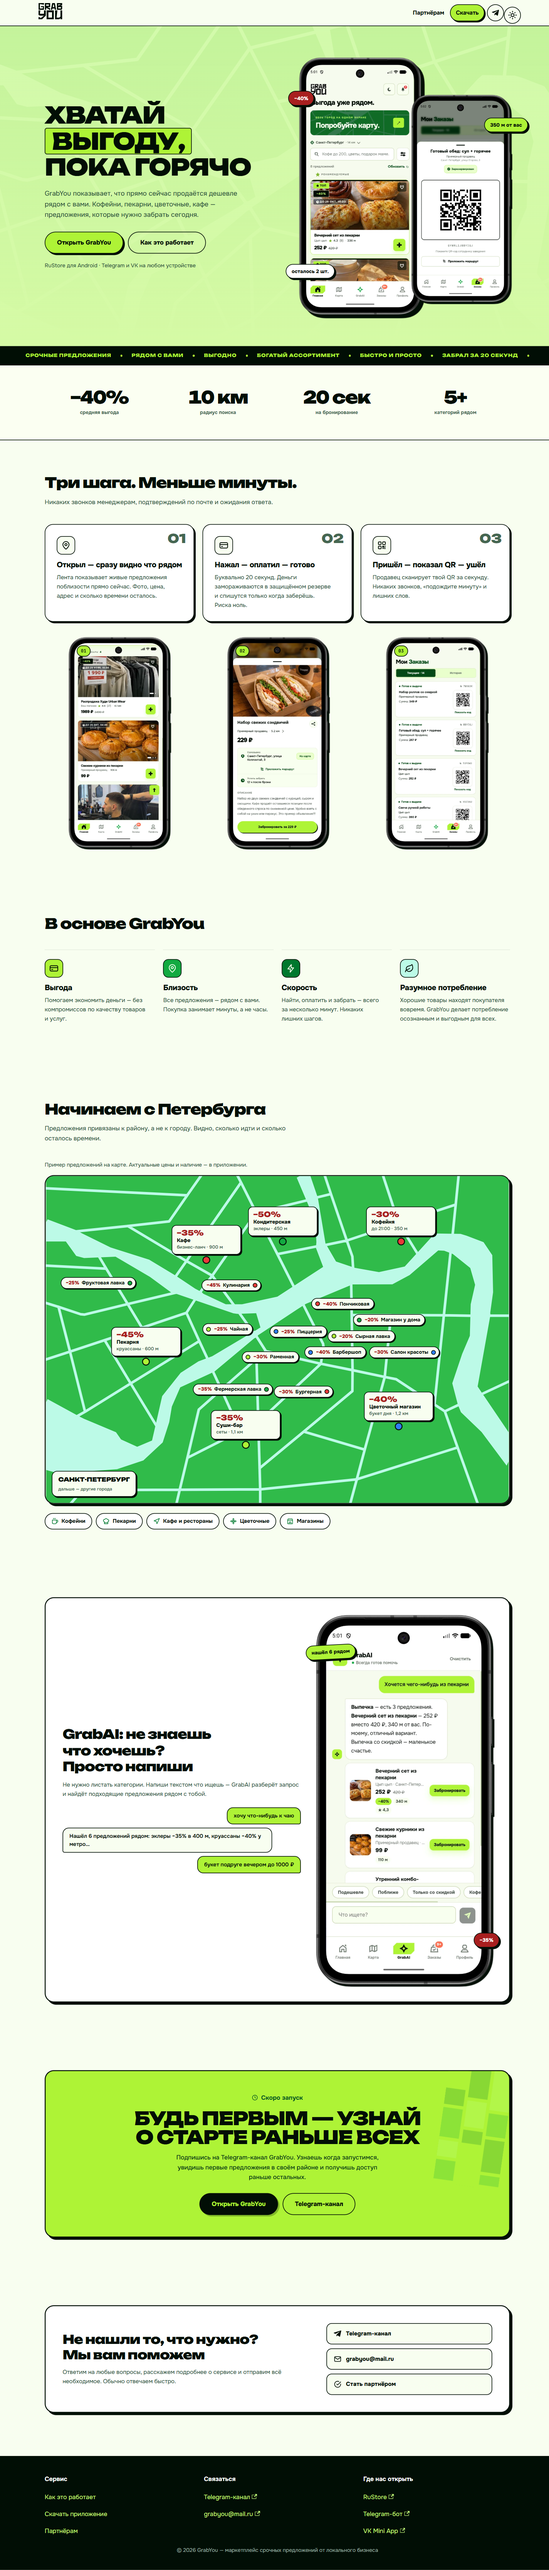
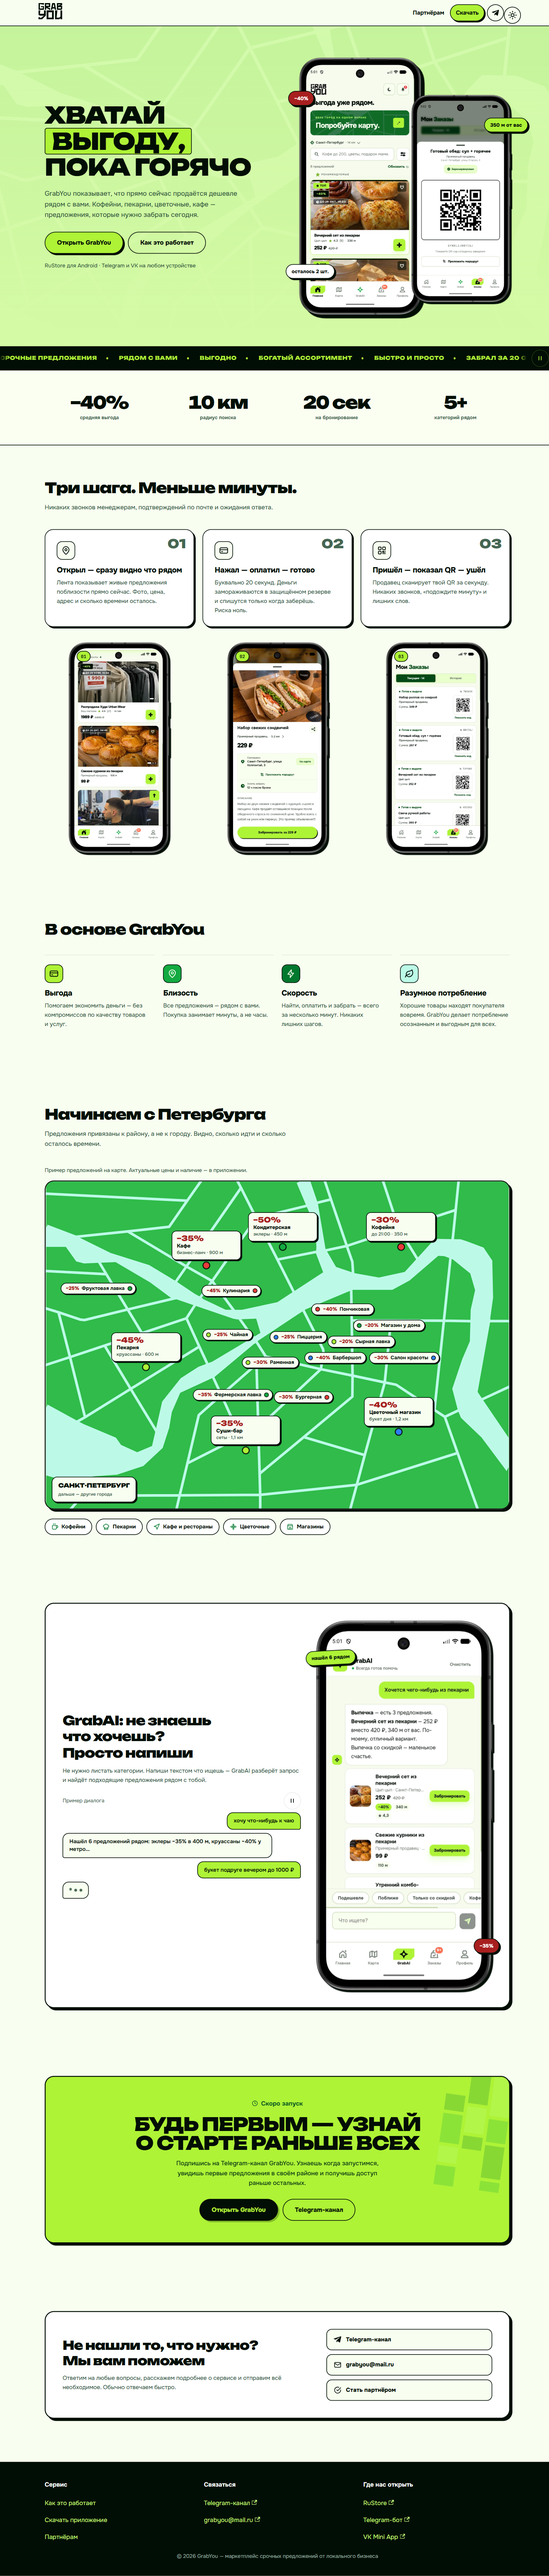
feat(motion): restore seamless ticker and GrabAI typing feedback
Add controlled right-to-left marquee, staggered typing dots and a restrained hero entrance. Pause loops offscreen or in hidden tabs, provide pause controls and static reduced-motion variants. Verify loop continuity and playback in Chromium.

diff --git a/src/components/HomepageFeatures/index.js b/src/components/HomepageFeatures/index.js
@@ -1,3 +1,4 @@
+import {useEffect, useRef, useState} from 'react';
 import Heading from '@theme/Heading';
 import Link from '@docusaurus/Link';
 import useBaseUrl from '@docusaurus/useBaseUrl';
@@ -19,6 +20,88 @@ import {
   IconZap,
 } from '@site/src/components/brand/icons';
 import styles from './styles.module.css';
+
+function usePlayback() {
+  const ref = useRef(null);
+  const [visible, setVisible] = useState(false);
+  const [pageVisible, setPageVisible] = useState(true);
+  const [paused, setPaused] = useState(false);
+
+  useEffect(() => {
+    const observer = new IntersectionObserver(([entry]) => setVisible(entry.isIntersecting), {threshold: 0.05});
+    observer.observe(ref.current);
+    const onVisibility = () => setPageVisible(document.visibilityState !== 'hidden');
+    onVisibility();
+    document.addEventListener('visibilitychange', onVisibility);
+    return () => {
+      observer.disconnect();
+      document.removeEventListener('visibilitychange', onVisibility);
+    };
+  }, []);
+
+  return {ref, paused, setPaused, running: visible && pageVisible && !paused};
+}
+
+function MotionToggle({paused, onToggle, subject, controls}) {
+  return (
+    <button
+      type="button"
+      className={styles.motionToggle}
+      aria-label={`${paused ? 'Продолжить' : 'Приостановить'} ${subject}`}
+      aria-controls={controls}
+      onClick={onToggle}>
+      <svg width="18" height="18" viewBox="0 0 24 24" aria-hidden="true">
+        {paused
+          ? <path d="m9 5 11 7-11 7Z" fill="currentColor" />
+          : <path d="M8 6v12M16 6v12" stroke="currentColor" strokeWidth="2.5" strokeLinecap="round" />}
+      </svg>
+    </button>
+  );
+}
+
+function ServiceTicker() {
+  const {ref, paused, setPaused, running} = usePlayback();
+  return (
+    <div className={styles.ticker} ref={ref} data-running={running}>
+      <div className={styles.tickerViewport} aria-hidden="true">
+        <div className={styles.tickerTrack} id="grabyou-ticker" data-motion="ticker-track">
+          {[0, 1].map((copy) => (
+            <div key={copy} className={styles.tickerGroup} data-motion="ticker-group">
+              {tickerItems.map((item) => (
+                <span key={item} className={styles.tickerItem}>
+                  {item}<span className={styles.tickerDot} />
+                </span>
+              ))}
+            </div>
+          ))}
+        </div>
+      </div>
+      <MotionToggle paused={paused} onToggle={() => setPaused(!paused)} subject="бегущую строку" controls="grabyou-ticker" />
+    </div>
+  );
+}
+
+function AiConversation() {
+  const {ref, paused, setPaused, running} = usePlayback();
+  return (
+    <div ref={ref} className={styles.aiDemo} data-running={running}>
+      <div className={styles.aiDemoToolbar}>
+        <span>Пример диалога</span>
+        <MotionToggle paused={paused} onToggle={() => setPaused(!paused)} subject="анимацию диалога" controls="grabai-typing" />
+      </div>
+      <div className={styles.aiChat}>
+        <div className={`${styles.bubble} ${styles.bubbleUser}`}>хочу что-нибудь к чаю</div>
+        <div className={styles.bubble}>
+          Нашёл 6 предложений рядом: эклеры −35% в 400 м, круассаны −40% у метро…
+        </div>
+        <div className={`${styles.bubble} ${styles.bubbleUser}`}>букет подруге вечером до 1000 ₽</div>
+        <div className={`${styles.bubble} ${styles.bubbleTyping}`} id="grabai-typing" role="img" aria-label="Пример: GrabAI подбирает предложения">
+          {[0, 1, 2].map((dot) => <span key={dot} data-motion="typing-dot" />)}
+        </div>
+      </div>
+    </div>
+  );
+}
 
 /* ─── Данные ─── */
 const tickerItems = [
@@ -131,8 +214,6 @@ export default function HomepageFeatures() {
   const paymentImg = useBaseUrl('/img/grabyou/payment-screen.webp');
   const aiPicImg = useBaseUrl('/img/grabyou/ai_pic.webp');
 
-  const ticker = tickerItems;
-
   return (
     <div className={styles.page}>
 
@@ -186,16 +267,7 @@ export default function HomepageFeatures() {
       </section>
 
       {/* ═══ ПОЛОСА СЕРВИСА ═══ */}
-      <div className={styles.ticker} aria-hidden="true">
-        <div className={styles.tickerTrack}>
-          {ticker.map((item, i) => (
-            <span key={i} className={styles.tickerItem}>
-              {item}
-              <span className={styles.tickerDot} />
-            </span>
-          ))}
-        </div>
-      </div>
+      <ServiceTicker />
 
       {/* ═══ ЦИФРЫ ═══ */}
       <section className={styles.statsSection}>
@@ -378,16 +450,7 @@ export default function HomepageFeatures() {
                   Не нужно листать категории. Напиши текстом что ищешь — GrabAI
                   разберёт запрос и найдёт подходящие предложения рядом с тобой.
                 </p>
-                <div className={styles.aiChat}>
-                  <div className={`${styles.bubble} ${styles.bubbleUser}`}>хочу что-нибудь к чаю</div>
-                  <div className={styles.bubble}>
-                    Нашёл 6 предложений рядом: эклеры −35% в 400 м, круассаны −40% у метро…
-                  </div>
-                  <div className={`${styles.bubble} ${styles.bubbleUser}`}>
-                    букет подруге вечером до 1000 ₽
-                  </div>
-
-                </div>
+                <AiConversation />
               </div>
               <div className={styles.aiVisual}>
                 <img src={aiPicImg} alt="GrabAI" loading="lazy" width="816" height="1713" />

diff --git a/src/components/HomepageFeatures/styles.module.css b/src/components/HomepageFeatures/styles.module.css
@@ -71,6 +71,12 @@
   grid-template-columns: minmax(0, 1.05fr) minmax(0, 0.95fr);
   gap: clamp(1.5rem, 4vw, 3.5rem);
   align-items: center;
+  animation: hero-enter 480ms var(--gy-ease);
+}
+
+@keyframes hero-enter {
+  from { opacity: 0.5; transform: translateY(8px); }
+  to { opacity: 1; transform: none; }
 }
 
 .heroCard {
@@ -196,20 +202,44 @@
    БЕГУЩАЯ СТРОКА
    ========================================================================== */
 .ticker {
+  display: flex;
+  align-items: center;
+  gap: 0.75rem;
   background: var(--gy-ink-900);
   color: var(--gy-accent);
   border-bottom: var(--gy-stroke) solid var(--gy-border);
   overflow: hidden;
-  padding: 0.85rem 0;
+  padding: 0.5rem 1rem 0.5rem 0;
+}
+
+.tickerViewport {
+  flex: 1;
+  min-width: 0;
+  overflow: hidden;
+  mask-image: linear-gradient(to right, transparent, #000 1.5rem, #000 calc(100% - 1.5rem), transparent);
 }
 
 .tickerTrack {
   display: flex;
-  justify-content: center;
-  flex-wrap: wrap;
-  gap: 0.75rem 1.5rem;
-  padding-inline: 1rem;
+  width: max-content;
+  animation: ticker-travel 36s linear infinite;
+  animation-play-state: paused;
+}
 
+.tickerGroup {
+  display: flex;
+  align-items: center;
+  justify-content: space-around;
+  flex: 0 0 auto;
+  min-width: 100vw;
+  gap: 1.75rem;
+  padding-right: 1.75rem;
+}
+
+.ticker[data-running='true'] .tickerTrack { animation-play-state: running; }
+
+@keyframes ticker-travel {
+  to { transform: translateX(-50%); }
 }
 
 .tickerItem {
@@ -217,17 +247,45 @@
   align-items: center;
   gap: 1.5rem;
   font-family: var(--gy-font-display);
-  font-size: 0.75rem;
+  font-size: 0.85rem;
   font-weight: 800;
   letter-spacing: 0.06em;
   white-space: nowrap;
 }
 
 .tickerDot {
+  flex-shrink: 0;
   width: 5px;
   height: 5px;
   border-radius: 999px;
   background: var(--gy-accent);
+}
+
+.motionToggle {
+  display: grid;
+  place-items: center;
+  flex: 0 0 44px;
+  width: 44px;
+  height: 44px;
+  padding: 0;
+  border: 1px solid var(--gy-border-soft);
+  border-radius: 50%;
+  background: transparent;
+  color: var(--gy-text);
+  cursor: pointer;
+  transition: background-color 160ms var(--gy-ease), transform 160ms var(--gy-ease);
+}
+
+.ticker .motionToggle {
+  color: var(--gy-accent);
+  border-color: color-mix(in srgb, var(--gy-accent) 35%, transparent);
+}
+
+.ticker .motionToggle:focus-visible { outline-color: var(--gy-accent); }
+
+@media (hover: hover) and (pointer: fine) {
+  .motionToggle:hover { background: color-mix(in srgb, var(--gy-accent) 15%, transparent); }
+  .motionToggle:active { transform: scale(0.96); }
 }
 
 /* ==========================================================================
@@ -776,7 +834,18 @@
 .aiChat {
   display: grid;
   gap: 0.55rem;
-  margin-top: 1.4rem;
+  margin-top: 0.5rem;
+}
+
+.aiDemo { margin-top: 1.25rem; }
+
+.aiDemoToolbar {
+  display: flex;
+  align-items: center;
+  justify-content: space-between;
+  gap: 1rem;
+  color: var(--gy-text-dim);
+  font-size: 0.85rem;
 }
 
 .bubble {
@@ -797,6 +866,32 @@
   border-radius: 16px 16px 5px 16px;
   background: var(--gy-accent);
   color: var(--gy-ink-900);
+}
+
+.bubbleTyping {
+  display: inline-flex;
+  align-items: center;
+  gap: 6px;
+  min-height: 44px;
+  padding-inline: 1rem;
+}
+
+.bubbleTyping span {
+  width: 7px;
+  height: 7px;
+  border-radius: 50%;
+  background: var(--gy-text-dim);
+  animation: typing-wave 1400ms var(--gy-ease) infinite;
+  animation-play-state: paused;
+}
+
+.bubbleTyping span:nth-child(2) { animation-delay: 160ms; }
+.bubbleTyping span:nth-child(3) { animation-delay: 320ms; }
+.aiDemo[data-running='true'] .bubbleTyping span { animation-play-state: running; }
+
+@keyframes typing-wave {
+  0%, 60%, 100% { opacity: 0.35; transform: translateY(0); }
+  30% { opacity: 1; transform: translateY(-3px); }
 }
 
 .aiVisual {
@@ -1137,7 +1232,7 @@
   .heroCard { padding: 0; }
   .heroText { font-size: 1rem; }
   .heroButtons { margin-top: 1.5rem; }
-  .tickerItem { font-family: var(--gy-font-base); font-size: 0.7rem; }
+  .tickerItem { font-size: 0.75rem; }
   .statsSection { padding-block: 1.5rem; }
   .heroVisual { max-width: 320px; }
   .shots, .offerStrip { scrollbar-width: thin; }
@@ -1147,4 +1242,13 @@
 
 @media (hover: none), (prefers-reduced-motion: reduce) {
   .helpLink:hover { transform: none; }
+}
+
+@media (prefers-reduced-motion: reduce) {
+  .heroGrid, .tickerTrack, .bubbleTyping span { animation: none; }
+  .ticker { padding: 0.85rem 1rem; }
+  .tickerViewport { mask-image: none; }
+  .tickerTrack { width: 100%; }
+  .tickerGroup { min-width: 0; width: 100%; flex-wrap: wrap; gap: 0.75rem 1.5rem; padding: 0; }
+  .tickerGroup + .tickerGroup, .motionToggle { display: none; }
 }

diff --git a/docs/ui-audit/README.md b/docs/ui-audit/README.md
@@ -24,7 +24,7 @@ karpathy-guidelines и ponytail.
 | P1 | Тёмная тема и фокус имели отдельные проблемы контраста | Семантический цвет фокуса и контрастные тексты/бейджи, включая hover |
 | P2 | Первый экран перегружен; объяснение покупки ниже блока ценностей | Ясное главное действие, меньше рамок и повторов, практический сценарий выше |
 | P2 | Карточка RuStore растягивалась на телефоне; выбор для iPhone неясен | Исправлен flex-basis, явно указаны подходящие каналы, конкретные названия действий |
-| P2 | Содержание скрыто до прокрутки; постоянные пульсации и счётчики | Содержание видно сразу. Одна короткая анимация формы, статичные числа и карта |
+| P2 | Содержание скрыто до прокрутки; постоянные пульсации и счётчики | Содержание видно сразу, числа и карта статичны. Строка и пример GrabAI получили управляемые анимации |
 | P2 | Крупные PNG утяжеляли главную | Шесть WebP: 554 518 байт вместо 10 361 203, уменьшение на 94,6%. Оригиналы сохранены |
 | P2 | На 320 px при тексте 200% обрезались футер, CTA, FAQ и отдельные заголовки | Ограничена ширина flex/grid-элементов, разрешены нужные переносы |
 | P2 | Корневые CSS-пути ломались в подпапке Pages; CORS не знал текущего владельца репозитория | Ассеты собираются с относительными путями, добавлен origin vladimirdonskov.github.io |
@@ -53,7 +53,18 @@ karpathy-guidelines и ponytail.
 [отправка](screenshots/after-form-loading.png), [ошибка](screenshots/after-form-error.png),
 [успех](screenshots/after-form-success.png).
 
+Кадры обновлённых анимаций: [бегущая строка](screenshots/motion-ticker-1440.png),
+[индикатор GrabAI](screenshots/motion-ai-1440.png),
+[GrabAI на телефоне](screenshots/motion-ai-390.png).
+
 ## Проверки
+
+По пожеланию владельца возвращены бесшовная бегущая строка справа налево и
+анимация трёх точек под запросом про букет. Главный экран появляется одной
+группой за 480 ms. Циклическое движение можно остановить кнопками; вне экрана
+и в скрытой вкладке оно приостанавливается, при reduced motion заменяется
+статичным представлением. Проверка направления, стыка цикла, паузы и reduced
+motion находится в `scripts/verify-motion.cjs` и запускается тем же Playwright runner.
 
 - Production-сборка Docusaurus: `npm run build`, без предупреждений компилятора CSS.
 - Видимый Chromium через Playwright: три страницы на 390, 768, 1440 px;

diff --git a/DESIGN.md b/DESIGN.md
@@ -31,8 +31,15 @@ GrabYou помогает найти срочные предложения лок
   API `{ok: true}`; закрытие подтверждения очищает заявку.
 - Открытие формы мышью: один контейнер, 200 ms, opacity и translateY.
   Для клавиатуры — сразу, для reduced motion — только opacity.
-- Нет бесконечного движения, счётчиков через React на каждом кадре или скрытого
-  до прокрутки содержимого. Состояния доступны без анимации.
+- Главный экран появляется одной группой за 480 ms: opacity и сдвиг на 8 px.
+  Нет вложенных задержек, подпрыгивания телефонов или скрытого до прокрутки контента.
+- Бегущая строка движется справа налево с постоянной скоростью и бесшовным циклом.
+  В примере GrabAI три точки мягко показывают подбор ответа; это демонстрация,
+  а не статус настоящего запроса. У каждого блока есть кнопка паузы.
+- Декоративные циклы останавливаются вне экрана и в скрытой вкладке. При
+  prefers-reduced-motion строка превращается в статичный набор надписей,
+  точки остаются статичными, первый экран появляется сразу.
+- Движение меняет только transform и opacity, без обновлений React на каждом кадре.
 
 ## Проверка изменений
 
